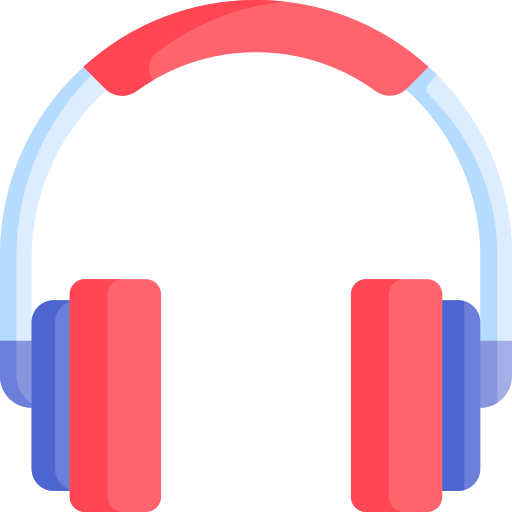
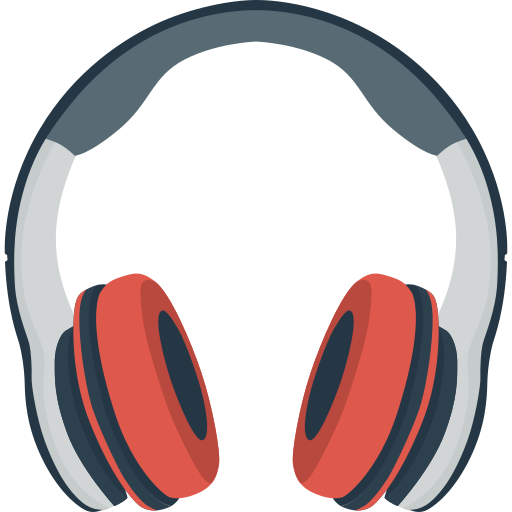
category design
Category Design

diff --git a/src/components/home/category/Category.jsx b/src/components/home/category/Category.jsx
@@ -1,7 +1,10 @@
 import './Categ.css'
-import Mobile from './mobile-app.jpeg'
-import Tablet from './ipad.png'
+import Mobile from './mobile-app.png'
+import Tablet from './tablet.png'
 import Laptop from './laptop-screen.png'
+import SmartWatch from './smartwatch.png'
+import Tv from './smart-tv.png'
+import Headphone from './headphones.png'
 import { Link } from 'react-router-dom'
 function Category() {
   return (
@@ -20,37 +23,37 @@ function Category() {
       <Link to={'/filterbycateory/ipad'} className="col-md-2 col-4 jj">
             <div className="home_category text-center">
                 <img src={Tablet} alt="" className="img-fluid" />
-                <h5 className="Category_title">Ipad</h5>
+                <h5 className="Category_title">Tablets</h5>
             </div>
         </Link>
 
-      <Link to={'/filterbycateory/laptops'} className="col-md-2 col-4 jj">
+      <Link to={'/filterbycateory/headphone'} className="col-md-2 col-4 jj">
+            <div className="home_category text-center">
+                <img src={Headphone} alt="" className="img-fluid" />
+                <h5 className="Category_title">Headphones</h5>
+            </div>
+        </Link>
+
+      <Link to={'/filterbycateory/watch'} className="col-md-2 col-4 jj">
+            <div className="home_category text-center">
+                <img src={SmartWatch} alt="" className="img-fluid" />
+                <h5 className="Category_title">Smart Watch</h5>
+            </div>
+        </Link>
+
+      <Link to={'/filterbycateory/tv'} className="col-md-2 col-4 jj">
+            <div className="home_category text-center">
+                <img src={Tv} alt="" className="img-fluid" />
+                <h5 className="Category_title">Tv</h5>
+            </div>
+        </Link>
+
+      <Link to={'/filterbycateory/laptop'} className="col-md-2 col-4 jj">
             <div className="home_category text-center">
                 <img src={Laptop} alt="" className="img-fluid" />
-                <h5 className="Category_title">Category</h5>
+                <h5 className="Category_title">laptops</h5>
             </div>
         </Link>
-
-      <div className="col-md-2 col-4 jj">
-            <div className="home_category text-center">
-                <img src="https://th.bing.com/th/id/OIP.to_TlBUYvK-3Jokwki905AHaHa?rs=1&pid=ImgDetMain" alt="" className="img-fluid" />
-                <h5 className="Category_title">Category</h5>
-            </div>
-        </div>
-
-      <div className="col-md-2 col-4 jj">
-            <div className="home_category text-center">
-                <img src="https://th.bing.com/th/id/OIP.to_TlBUYvK-3Jokwki905AHaHa?rs=1&pid=ImgDetMain" alt="" className="img-fluid" />
-                <h5 className="Category_title">Category</h5>
-            </div>
-        </div>
-
-      <div className="col-md-2 col-4 jj">
-            <div className="home_category text-center">
-                <img src="https://th.bing.com/th/id/OIP.to_TlBUYvK-3Jokwki905AHaHa?rs=1&pid=ImgDetMain" alt="" className="img-fluid" />
-                <h5 className="Category_title">Category</h5>
-            </div>
-        </div>
 
     </div>
     </div>

diff --git a/src/components/dashboard/DashboardTab.jsx b/src/components/dashboard/DashboardTab.jsx
@@ -1,4 +1,4 @@
-import { useEffect, useState } from "react";
+import { useContext, useEffect, useState } from "react";
 import { Tab, Tabs, TabList, TabPanel } from "react-tabs";
 // import myContext from '../../../context/data/myContext';
 import { MdOutlineProductionQuantityLimits } from "react-icons/md";
@@ -6,39 +6,17 @@ import { FaUser, FaCartPlus } from "react-icons/fa";
 import { AiFillShopping } from "react-icons/ai";
 import Dashbordcard from "./Dashbordcard";
 import { Link } from "react-router-dom";
-import { collection, getDocs, query, where } from "firebase/firestore";
-import { auth, db } from "../firebase/Firebase";
+import { collection, getDocs, } from "firebase/firestore";
+import {  db } from "../firebase/Firebase";
+import MyContext from "../myContext/MyContext";
 
 function DashboardTab() {
   const [order, setOrder] = useState([]);
   const [filterorder, setFilterOrder] = useState([]);
   const [status, setStatus] = useState("")
 
-  const GetCurrentUser = () => {
-    const [user, setUser] = useState("");
-    const usersCollectionRef = collection(db, "users");
-
-    // user login hai ya nhi
-    useEffect(() => {
-      auth.onAuthStateChanged((userlogged) => {
-        if (userlogged) {
-          const getUsers = async () => {
-            const q = query(
-              collection(db, "users"),
-              where("uid", "==", userlogged.uid)
-            );
-            const data = await getDocs(q);
-            setUser(data.docs.map((doc) => ({ ...doc.data(), id: doc.id })));
-          };
-          getUsers();
-        } else {
-          setUser(null);
-        }
-      });
-    }, []);
-    return user;
-  };
-  const loggeduser = GetCurrentUser();
+  const context = useContext(MyContext);
+  const { loggeduser } = context;
 
   useEffect(() => {
     const getProducts = async () => {

diff --git a/src/components/dashboard/Admin/AdminDashboard.jsx b/src/components/dashboard/Admin/AdminDashboard.jsx
@@ -2,8 +2,8 @@
 import {FaUserTie } from 'react-icons/fa';
 import AdminDashboardTab from './AdminDashboardTab';
 import { useContext, useEffect, useState } from 'react';
-import { collection, getDocs, query, where } from 'firebase/firestore';
-import { auth, db } from '../../firebase/Firebase';
+import { collection, getDocs, } from 'firebase/firestore';
+import {  db } from '../../firebase/Firebase';
 import MyContext from '../../myContext/MyContext';
 // import myContext from '../../../context/data/myContext';
 // import Layout from '../../../components/layout/Layout';
@@ -14,30 +14,8 @@ function AdminDashboard() {
 
 
 
-    const GetCurrentUser = () =>{
-      const [user, setUser] = useState('')
-      const usersCollectionRef = collection(db, 'users')
-  
-      // user login hai ya nhi 
-      useEffect(() => {
-      auth.onAuthStateChanged(userlogged=>{
-        if(userlogged){
-          const getUsers = async () => {
-            const q = query(collection(db, 'users'), where('uid','==', userlogged.uid))
-            const data = await getDocs(q);
-            setUser(data.docs.map((doc)=>({...doc.data(),id:doc.id})))
-          }
-          getUsers();
-        }
-        else{
-          setUser(null);
-        }
-      })
-  
-      }, [])
-      return user;
-    }
-    const loggeduser  = GetCurrentUser();
+    const context = useContext(MyContext);
+    const { loggeduser } = context;
 
     useEffect(() => {
       const getProducts = async () => {

diff --git a/src/components/dashboard/Dashbordcard.jsx b/src/components/dashboard/Dashbordcard.jsx
@@ -1,7 +1,8 @@
-import { collection, deleteDoc, doc, getDocs, query, where } from "firebase/firestore";
-import { useEffect, useState } from "react";
-import { auth, db } from "../firebase/Firebase";
+import { collection, deleteDoc, doc, getDocs, } from "firebase/firestore";
+import { useContext, useEffect, useState } from "react";
+import {  db } from "../firebase/Firebase";
 import { useNavigate } from "react-router-dom";
+import MyContext from "../myContext/MyContext";
 
 function Dashbordcard() {
     const [products, setProducts] = useState([]);
@@ -9,30 +10,8 @@ function Dashbordcard() {
    const navigate = useNavigate();
 
 
-    const GetCurrentUser = () =>{
-      const [user, setUser] = useState('')
-      const usersCollectionRef = collection(db, 'users')
-  
-      // user login hai ya nhi 
-      useEffect(() => {
-      auth.onAuthStateChanged(userlogged=>{
-        if(userlogged){
-          const getUsers = async () => {
-            const q = query(collection(db, 'users'), where('uid','==', userlogged.uid))
-            const data = await getDocs(q);
-            setUser(data.docs.map((doc)=>({...doc.data(),id:doc.id})))
-          }
-          getUsers();
-        }
-        else{
-          setUser(null);
-        }
-      })
-  
-      }, [])
-      return user;
-    }
-    const loggeduser  = GetCurrentUser()
+   const context = useContext(MyContext);
+   const { loggeduser } = context;
 
 
     useEffect(() => {

diff --git a/src/components/addProducts/AddProducts.jsx b/src/components/addProducts/AddProducts.jsx
@@ -164,6 +164,7 @@ const Addproducts = () => {
               <option >Ipad</option>
               <option >TV</option>
               <option >Laptop</option>
+              <option >Watch</option>
             </select>
 
             <label>Brand Name </label>
@@ -212,7 +213,7 @@ const Addproducts = () => {
             <input
               onChange={(e) => setStock(e.target.value)}
               type="text"
-              placeholder="Ram Sotrage"
+              placeholder="Stock"
             />
             <label>MRP</label>
             <input
